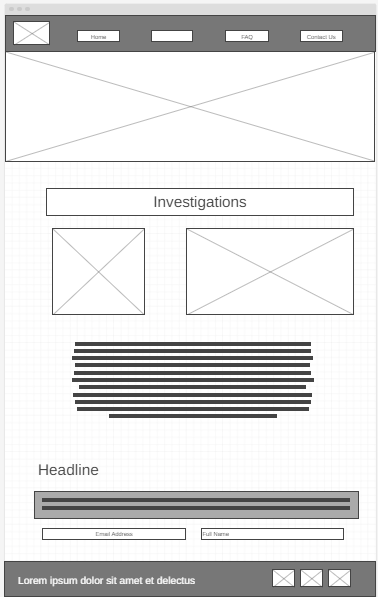
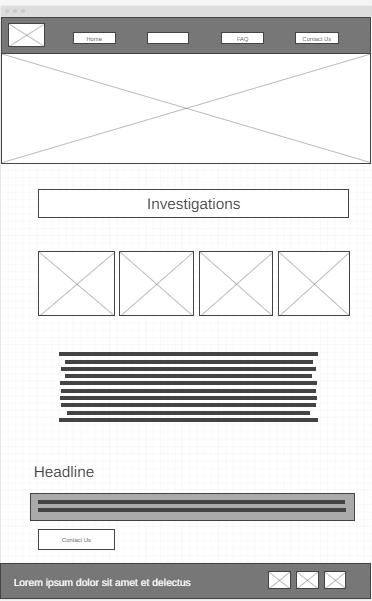
a simple component page 3

diff --git a/ghouls385/index3.html b/ghouls385/index3.html
@@ -5,6 +5,48 @@
     <meta name="viewport" content="width=device-width, initial-scale=1.0">
     <title>Home Page</title>
     <link rel="stylesheet" href="styles/style.css">
+    <script>
+        // Open the Modal
+        function openModal() {
+          document.getElementById("myModal").style.display = "block";
+        }
+        
+        // Close the Modal
+        function closeModal() {
+          document.getElementById("myModal").style.display = "none";
+        }
+        
+        var slideIndex = 1;
+        showSlides(slideIndex);
+        
+        // Next/previous controls
+        function plusSlides(n) {
+          showSlides(slideIndex += n);
+        }
+        
+        // Thumbnail image controls
+        function currentSlide(n) {
+          showSlides(slideIndex = n);
+        }
+        
+        function showSlides(n) {
+          var i;
+          var slides = document.getElementsByClassName("mySlides");
+          var dots = document.getElementsByClassName("demo");
+          var captionText = document.getElementById("caption");
+          if (n > slides.length) {slideIndex = 1}
+          if (n < 1) {slideIndex = slides.length}
+          for (i = 0; i < slides.length; i++) {
+            slides[i].style.display = "none";
+          }
+          for (i = 0; i < dots.length; i++) {
+            dots[i].className = dots[i].className.replace(" active", "");
+          }
+          slides[slideIndex-1].style.display = "block";
+          dots[slideIndex-1].className += " active";
+          captionText.innerHTML = dots[slideIndex-1].alt;
+        }
+        </script>
 </head>
 <body>
     <div>
@@ -21,23 +63,84 @@
         </header>
         <div id="invest-hero">
             <div id="invest-box">
-                <img class="invest-img" src="images/rsz_equipment.jpg"  alt="paranormal equipment"> <img src="images/rsz_group_invest.jpg" alt="group investigation">
+                <img class="invest-img" src="images/woods.jpg"  alt="haunted woods"> 
             </div>
-        </div>
+            <div class="invest-title">
+                <h1>Investigations</h1>
+                </div>      
+            </div>
     </div>
-    <main class="invest-grid">
-        <div class="invest-title">
-        <h1>Investigations</h1>
-        </div>
-        <div class="public1">
-            <img src="images/rsz_public_investigation.jpg" alt="public investigation">
-        </div>
-        <div class="house">
-            <img src="images/rsz_1rsz_evidence_1.jpg" alt="investigating">
-        </div>
+    <main>
         <div class="invest-p">
             <p> Lorem ipsum dolor sit amet, consectetur adipiscing elit, sed do eiusmod tempor incididunt ut labore et dolore magna aliqua. Ut enim ad minim veniam, quis nostrud exercitation ullamco laboris nisi ut aliquip ex ea commodo consequat. Duis aute irure dolor in reprehenderit in voluptate velit esse cillum dolore eu fugiat nulla pariatur. Excepteur sint occaecat cupidatat non proident, sunt in culpa qui officia deserunt mollit anim id est laborum.</p>
         </div>
+        <div class="row">
+           <div class="column">
+              <img src="images/box-evidence.jpg" alt="dosing rods" onclick="openModal();currentSlide(1)" class="hover-shadow">
+            </div>
+            <div class="column">
+              <img src="images/box-equipment.jpg" alt="equipment" onclick="openModal();currentSlide(2)" class="hover-shadow">
+            </div>
+            <div class="column">
+              <img src="images/box-group.jpg" alt="group investigation" onclick="openModal();currentSlide(3)" class="hover-shadow">
+            </div>
+            <div class="column">
+              <img src="images/box-public.jpg" alt="public investigation" onclick="openModal();currentSlide(4)" class="hover-shadow">
+            </div>
+         </div>
+          
+          <!-- The Modal/Lightbox -->
+        <div id="myModal" class="modal">
+            <span class="close cursor" onclick="closeModal()">&times;</span>
+            <div class="modal-content">
+            <div class="mySlides">
+                <div class="numbertext">1 / 4</div>
+                <img src="images/rsz_1rsz_evidence_1.jpg" alt="dosing rods" style="width:100%">
+            </div>
+          
+                <div class="mySlides">
+                    <div class="numbertext">2 / 4</div>
+                    <img src="images/rsz_equipment.jpg" alt="equipment" style="width:100%">
+                </div>
+          
+                <div class="mySlides">
+                    <div class="numbertext">3 / 4</div>
+                    <img src="images/rsz_group_invest.jpg" alt="group investigation" style="width:100%">
+                </div>
+          
+                <div class="mySlides">
+                    <div class="numbertext">4 / 4</div>
+                    <img src="images/rsz_public_investigation.jpg" alt="public investigation" style="width:100%">
+                </div>
+          
+              <!-- Next/previous controls -->
+              <a class="prev" onclick="plusSlides(-1)">&#10094;</a>
+              <a class="next" onclick="plusSlides(1)">&#10095;</a>
+          
+              <!-- Caption text -->
+              <div class="caption-container">
+                <p id="caption"></p>
+              </div>
+          
+              <!-- Thumbnail image controls -->
+              <div class="column">
+                <img class="demo" src="images/box-evidence.jpg" onclick="currentSlide(1)" alt="Dosing Rods">
+              </div>
+          
+              <div class="column">
+                <img class="demo" src="images/box-equipment.jpg" onclick="currentSlide(2)" alt="Common Paranormal Equipment">
+              </div>
+          
+              <div class="column">
+                <img class="demo" src="images/box-group.jpg" onclick="currentSlide(3)" alt="Group from our public investigation">
+              </div>
+          
+              <div class="column">
+                <img class="demo" src="images/box-public.jpg" onclick="currentSlide(4)" alt="Public Investigation">
+              </div>
+            </div>
+          </div>
+
         <div class="join-invest">
             <h2>Be Part of an Investigation</h2>
             <p>Lorem ipsum dolor sit amet, consectetur adipiscing elit, sed do eiusmod tempor incididunt ut labore et dolore magna aliqua. Ut enim ad minim veniam, quis nostrud exercitation ullamco laboris nisi ut aliquip ex ea commodo consequat.</p>

diff --git a/ghouls385/styles/style.css b/ghouls385/styles/style.css
@@ -168,9 +168,7 @@ footer {
 .para-img {
     width: 100%;
     grid-column: 2/5;
-    grid-row: 2/4;
- 
-    
+    grid-row: 2/4;   
 }
 #para-box {
     grid-column: 1/4;
@@ -209,12 +207,14 @@ footer {
 .house{
     grid-column: 1/4;
     grid-row: 3/5;
-    margin-left: 75px;    
+    margin-left: 75px;
+        
 }
 .hallway {
     grid-column: 6/9;
     grid-row: 3/7; 
-    margin-top: 75px;  
+    margin-top: 75px;
+    
 }
 .get_in_touch {
     background-color: #808080; 
@@ -268,3 +268,160 @@ footer .social img:hover {
     opacity: 0.8;
     transform: scale(1.1);
 }
+
+/* Investigations page 3 */
+#invest-hero {
+    display: grid;
+    grid-template-columns: repeat(4 1fr);
+    margin-top: -100px;
+    margin-bottom: 50px;
+}
+.invest-img {
+    width: 100%;
+    grid-column: 2/5;
+    grid-row: 2/4;   
+}
+#invest-box {
+    grid-column: 1/4;
+    grid-row: 1/2;
+    z-index: -1;
+}
+/* Home Title Styles */
+#invest-title {
+    font-family: 'Nosifer', 'Bradley Hand', sans-serif;
+    font-size: 2em;
+    color: #bfbac4;
+    text-align: center;
+    grid-column: 1/4;
+    grid-row: 3/4;
+    border-style: outset;
+    background-color: #4b1a79;
+    margin-top: 75px;
+    margin-inline-start: 100px;
+    margin-inline-end: 100px;
+ }
+.row > .column {
+    padding: 0 8px;
+  }
+  
+  .row:after {
+    content: "";
+    display: table;
+    clear: both;
+  }
+  
+  /* Create four equal columns that floats next to eachother */
+  .column {
+    float: left;
+    width: 25%;
+  }
+  
+  /* The Modal (background) */
+  .modal {
+    display: none;
+    position: fixed;
+    z-index: 1;
+    padding-top: 100px;
+    left: 0;
+    top: 0;
+    width: 100%;
+    height: 100%;
+    overflow: auto;
+    background-color: black;
+  }
+  
+  /* Modal Content */
+  .modal-content {
+    position: relative;
+    background-color: #fefefe;
+    margin: auto;
+    padding: 0;
+    width: 90%;
+    max-width: 1200px;
+  }
+  
+  /* The Close Button */
+  .close {
+    color: white;
+    position: absolute;
+    top: 10px;
+    right: 25px;
+    font-size: 35px;
+    font-weight: bold;
+  }
+  
+  .close:hover,
+  .close:focus {
+    color: #999;
+    text-decoration: none;
+    cursor: pointer;
+  }
+  
+  /* Hide the slides by default */
+  .mySlides {
+    display: none;
+  }
+  
+  /* Next & previous buttons */
+  .prev,
+  .next {
+    cursor: pointer;
+    position: absolute;
+    top: 50%;
+    width: auto;
+    padding: 16px;
+    margin-top: -50px;
+    color: white;
+    font-weight: bold;
+    font-size: 20px;
+    transition: 0.6s ease;
+    border-radius: 0 3px 3px 0;
+    user-select: none;
+    -webkit-user-select: none;
+  }
+  
+  /* Position the "next button" to the right */
+  .next {
+    right: 0;
+    border-radius: 3px 0 0 3px;
+  }
+  
+  /* On hover, add a black background color with a little bit see-through */
+  .prev:hover,
+  .next:hover {
+    background-color: rgba(0, 0, 0, 0.8);
+  }
+  
+  /* Number text (1/3 etc) */
+  .numbertext {
+    color: #f2f2f2;
+    font-size: 12px;
+    padding: 8px 12px;
+    position: absolute;
+    top: 0;
+  }
+  
+  /* Caption text */
+  .caption-container {
+    text-align: center;
+    background-color: black;
+    padding: 2px 16px;
+    color: white;
+  }
+  
+  img.demo {
+    opacity: 0.6;
+  }
+  
+  .active,
+  .demo:hover {
+    opacity: 1;
+  }
+  
+  img.hover-shadow {
+    transition: 0.3s;
+  }
+  
+  .hover-shadow:hover {
+    box-shadow: 0 4px 8px 0 rgba(0, 0, 0, 0.2), 0 6px 20px 0 rgba(0, 0, 0, 0.19);
+  }
